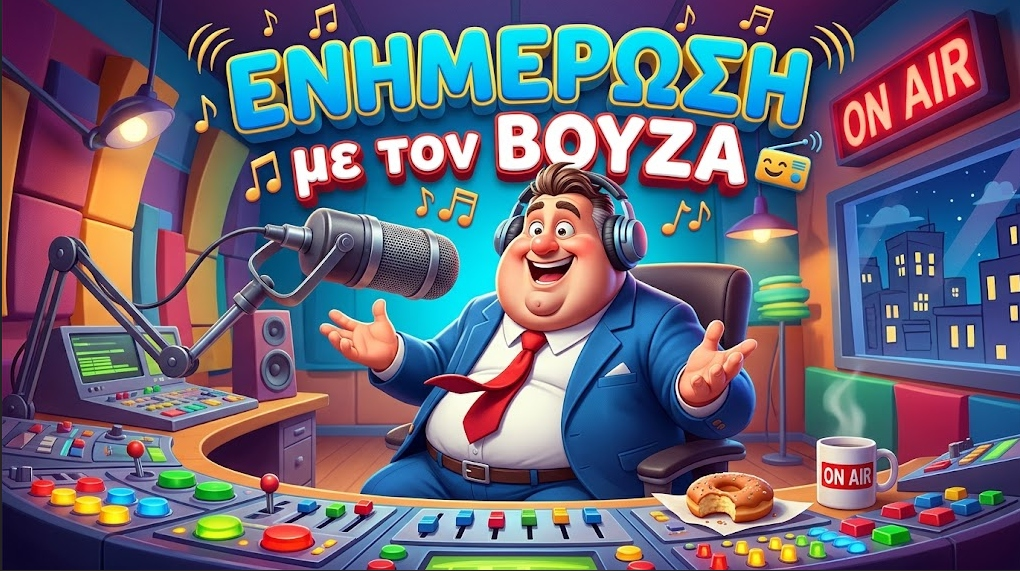
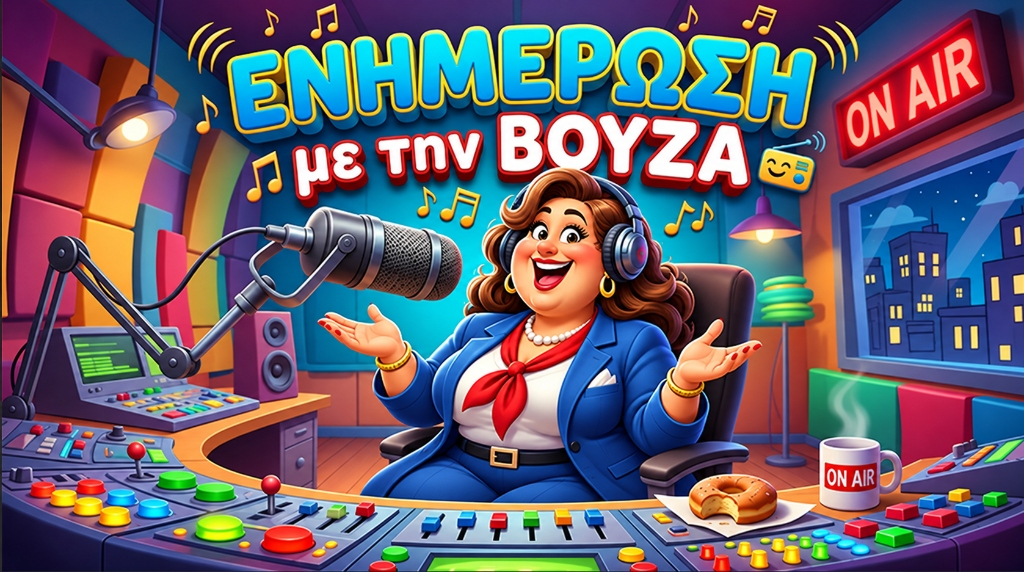
feat(shows): update artwork and title to Enimerosi me tin Vouza

diff --git a/src/data/radioData.ts b/src/data/radioData.ts
@@ -34,7 +34,8 @@ const KNOWN_PRESETS: Record<string, { name: string; category: string }> = {
   "pick-up.png": { name: "Pick Up", category: "Indie Rock & Post Punk" },
   "argorythmoi.jpg": { name: "Argorythmoi", category: "Technology & AI" },
   "imposters.png": { name: "Οι Ιμπόστερς", category: "Talk & Trivia" },
-  "enimerosi-vouzas.jpg": { name: "Ενημέρωση με τον Βούζα", category: "News & Talk" }
+  "enimerosi-vouzas.jpg": { name: "Ενημέρωση με την Βούζα", category: "News & Talk" },
+  "enimerosi-vouza.jpg": { name: "Ενημέρωση με την Βούζα", category: "News & Talk" }
 };
 
 function formatImageTitle(fileName: string): string {
@@ -248,12 +249,12 @@ export const WEEKLY_SCHEDULE_EN: DayProgram[] = [
       },
       {
         id: "show-enimerosi-vouzas",
-        title: "Ενημέρωση με τον Βούζα",
+        title: "Ενημέρωση με την Βούζα",
         time: "20:00 - 21:00",
-        host: "Βούζας",
+        host: "Βούζα",
         tags: ["News", "Talk", "Radio"],
         description: "",
-        image: "/shows/enimerosi-vouzas.jpg",
+        image: "/shows/enimerosi-vouza.jpg",
         hidden: false
       }
     ]
@@ -442,12 +443,12 @@ export const WEEKLY_SCHEDULE_GR: DayProgram[] = [
       },
       {
         id: "show-enimerosi-vouzas",
-        title: "Ενημέρωση με τον Βούζα",
+        title: "Ενημέρωση με την Βούζα",
         time: "20:00 - 21:00",
-        host: "Βούζας",
+        host: "Βούζα",
         tags: ["News", "Talk", "Radio"],
         description: "",
-        image: "/shows/enimerosi-vouzas.jpg",
+        image: "/shows/enimerosi-vouza.jpg",
         hidden: false
       }
     ]
@@ -569,11 +570,11 @@ export const SHOWS_DESCRIPTIONS_EN: ShowDescription[] = [
   },
   {
     id: "show-enimerosi-vouzas",
-    title: "Ενημέρωση με τον Βούζα",
-    host: "Βούζας",
+    title: "Ενημέρωση με την Βούζα",
+    host: "Βούζα",
     description: "",
     tags: ["News", "Talk", "Radio"],
-    image: "/shows/enimerosi-vouzas.jpg"
+    image: "/shows/enimerosi-vouza.jpg"
   }
 ];
 
@@ -692,11 +693,11 @@ export const SHOWS_DESCRIPTIONS_GR: ShowDescription[] = [
   },
   {
     id: "show-enimerosi-vouzas",
-    title: "Ενημέρωση με τον Βούζα",
-    host: "Βούζας",
+    title: "Ενημέρωση με την Βούζα",
+    host: "Βούζα",
     description: "",
     tags: ["News", "Talk", "Radio"],
-    image: "/shows/enimerosi-vouzas.jpg"
+    image: "/shows/enimerosi-vouza.jpg"
   }
 ];
 

diff --git a/src/lib/contentService.ts b/src/lib/contentService.ts
@@ -10,7 +10,7 @@ import { DayProgram, StationEvent, OpenCallApplication } from "../types";
 
 import { persistApplication } from "./persistApplication";
 
-const SCHEDULE_CACHE_KEY = "frs_cached_schedule_v8";
+const SCHEDULE_CACHE_KEY = "frs_cached_schedule_v9";
 const EVENTS_CACHE_KEY = "frs_cached_events";
 
 /**
@@ -86,6 +86,7 @@ export function getCachedCustomSchedule(): DayProgram[] | null {
       localStorage.removeItem("frs_cached_schedule_v5");
       localStorage.removeItem("frs_cached_schedule_v6");
       localStorage.removeItem("frs_cached_schedule_v7");
+      localStorage.removeItem("frs_cached_schedule_v8");
     } catch {}
     const raw = localStorage.getItem(SCHEDULE_CACHE_KEY);
     if (raw) {
